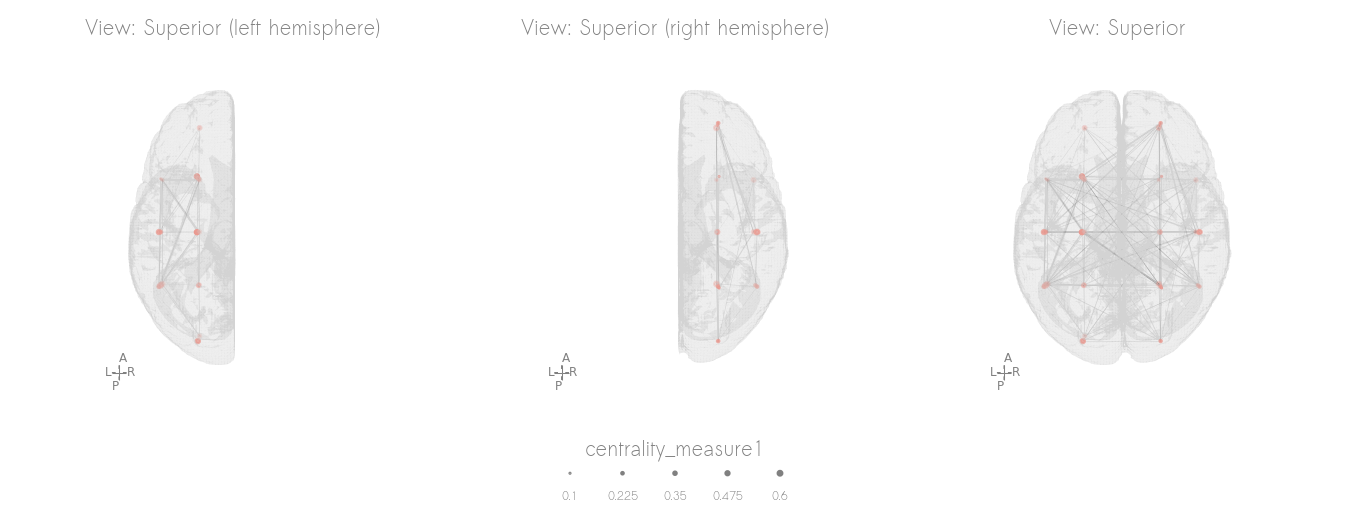
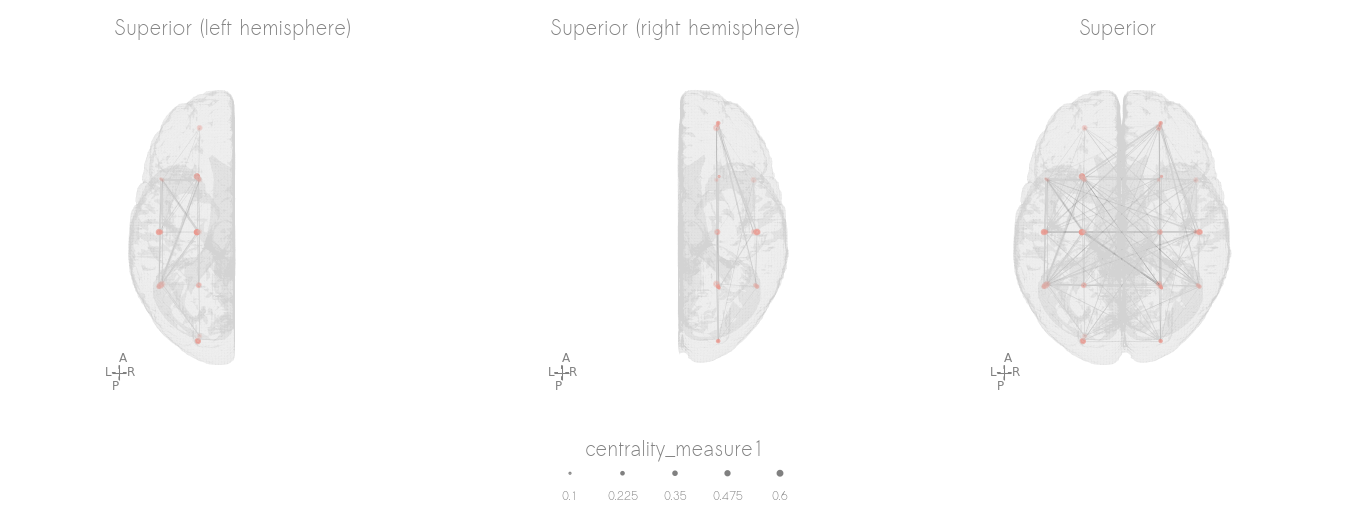
font kwargs

Changed region(s): [[0.3733, 0.0305, 0.6222, 0.0914], [0.0622, 0.0305, 0.28, 0.0914], [0.7778, 0.0305, 0.8711, 0.0914]]

diff --git a/netplotbrain/plotting/plot_legend.py b/netplotbrain/plotting/plot_legend.py
@@ -23,6 +23,10 @@ def _add_nodesize_legend(ax, nodes, nodesize, **kwargs):
     nodescale = kwargs.get('nodescale')
     nodesizelegend = kwargs.get('nodesizelegend')
     nodevminvmax = kwargs.get('nodevminvmax')
+    font = kwargs.get('font')
+    fontcolor = kwargs.get('fontcolor')
+    legendtickfontsize = kwargs.get('legendtickfontsize')
+    legendtitlefontsize = kwargs.get('legendtitlefontsize')
     if nodesizelegend is True:
         if isinstance(nodesize, str) and nodesize in nodes.columns:
             _, nl = _node_scale_vminvmax(
@@ -56,10 +60,10 @@ def _add_nodesize_legend(ax, nodes, nodesize, **kwargs):
     ax.scatter(np.arange(len(nodesizelegend)), np.ones(
         len(nodesizelegend)), s=nodesizelegend, color='gray')
     for x, label in enumerate(nodesizelegendlabels):
-        ax.text(x, 0.925, label, color='Gray', ha='center',
-                font='Sawasdee', fontsize='xx-small')
+        ax.text(x, 0.925, label, color=fontcolor, ha='center',
+                font=font, fontsize=legendtickfontsize)
     ax.text(np.mean(np.arange(len(nodesizelegendlabels))), 1.05, nodesize,
-            color='Gray', ha='center', font='Sawasdee', fontsize='medium')
+            color=fontcolor, ha='center', font=font, fontsize=legendtitlefontsize)
     ax.set_ylim([0.925, 1.1])
     ax.set_xlim([-2, len(nodesizelegendlabels) + 1])
     return ax
@@ -72,6 +76,11 @@ def _add_nodecolor_legend_discrete(ax, nodes, nodecolorby, nodecolor, **kwargs):
     """
     # Get relevant kwargs
     nodescale = kwargs.get('nodescale')
+    font = kwargs.get('font')
+    fontcolor = kwargs.get('fontcolor')
+    legendtickfontsize = kwargs.get('legendtickfontsize')
+    legendtitlefontsize = kwargs.get('legendtitlefontsize')
+    # Create list of discrete colors
     uniquenodecolorby = set(nodes[nodecolorby].dropna().values)
     uniquenodecolors_idx = [nodes[nodes[nodecolorby] ==
                                   x].first_valid_index() for x in uniquenodecolorby]
@@ -79,21 +88,27 @@ def _add_nodecolor_legend_discrete(ax, nodes, nodecolorby, nodecolor, **kwargs):
     ax.scatter(np.arange(len(uniquenodecolorby)), np.ones(
         len(uniquenodecolorby)), color=uniquenodecolors, s=nodescale)
     for x, label in enumerate(uniquenodecolorby):
-        ax.text(x, 0.925, label, color='Gray', ha='center',
-                font='Sawasdee', fontsize='xx-small')
+        ax.text(x, 0.925, label, color=fontcolor, ha='center',
+                font=font, fontsize=legendtickfontsize)
     ax.set_ylim([0.85, 1.1])
     ax.set_xlim([-2, len(uniquenodecolorby) + 1])
     # Plot title
     ax.text(np.mean(np.arange(len(uniquenodecolorby))), 1.05, nodecolorby,
-            color='Gray', ha='center', font='Sawasdee', fontsize='medium')
+            color=fontcolor, ha='center', font=font, fontsize=legendtitlefontsize)
     return ax
 
 
-def add_nodecolor_legend_continuous(ax, nodes, nodecolorby, nodecmap):
+def add_nodecolor_legend_continuous(ax, nodes, nodecolorby, nodecmap, **kwargs):
     """
     Add node color legend to bottom of figure.
     This is for continuous colours.
-    """
+    """    
+    # Get relevant kwargs
+    font = kwargs.get('font')
+    fontcolor = kwargs.get('fontcolor')
+    legendtickfontsize = kwargs.get('legendtickfontsize')
+    legendtitlefontsize = kwargs.get('legendtitlefontsize')
+    # Create continuous scale
     nc_min = nodes[nodecolorby].min()
     nc_max = nodes[nodecolorby].max()
     inc = (nc_max - nc_min) / 100
@@ -105,11 +120,11 @@ def add_nodecolor_legend_continuous(ax, nodes, nodecolorby, nodecmap):
     xticklabels = np.arange(nc_min, nc_max + (inc / 2), inc)
     for i, xtick in enumerate(np.arange(-3, 3.01, 1.5)):
         ax.plot([xtick, xtick], [0.94, 0.99], linewidth=1, color='lightgray')
-        ax.text(xtick, 0.75, np.round(xticklabels[i], 3), color='Gray', ha='center',
-                font='Sawasdee', fontsize='xx-small', transform=ax.transData)
+        ax.text(xtick, 0.75, np.round(xticklabels[i], 3), color=fontcolor, ha='center',
+                font=font, fontsize=legendtickfontsize, transform=ax.transData)
     # Plot title
     ax.text(0, 1.4, nodecolorby,
-            color='Gray', ha='center', font='Sawasdee', fontsize='medium')
+            color=fontcolor, ha='center', font=font, fontsize=legendtitlefontsize)
     return ax
 
 
@@ -129,6 +144,6 @@ def _add_nodecolor_legend(ax, nodes, nodecolorby, nodecolor, nodecmap, **kwargs)
         ax = _add_nodecolor_legend_discrete(
             ax, nodes, nodecolorby, nodecolor, **kwargs)
     else:
-        ax = add_nodecolor_legend_continuous(ax, nodes, nodecolorby, nodecmap)
+        ax = add_nodecolor_legend_continuous(ax, nodes, nodecolorby, nodecmap, **kwargs)
 
     return ax

diff --git a/netplotbrain/plot.py b/netplotbrain/plot.py
@@ -139,9 +139,13 @@ def plot(nodes=None, fig=None, ax=None, view='L', frames=1, edges=None, template
         If the colorlegend is plotted or not.
     nodesizelegend : True
     nodecolorlegendstyle : str
-        Alternatvies: auto (default), discrete, continuious
+        Alternatives: auto (default), discrete, continuious
         If the color legend should show the entire colormap or discrete colors.
         If auto, plots discrete if less than 8 unique values are detected.
+    legendtickfontsize : str, int
+        Matplotlib fontsize for title in figure legends
+    legendtitlefontsize : str, int
+        Matplotlib fontsize for ticks in figure legends
 
     ARROW KWARGS
 
@@ -152,7 +156,6 @@ def plot(nodes=None, fig=None, ax=None, view='L', frames=1, edges=None, template
     arroworigin : list
         x,y,z coordinates of arrowaxis. Note 0,0,0 is bottom left.
 
-
     FIGURE KWARGS
 
     ax : matplotlib ax with 3D projection
@@ -162,7 +165,20 @@ def plot(nodes=None, fig=None, ax=None, view='L', frames=1, edges=None, template
     fig : matplotlib figure
 
 
-    OTHER KWARGS
+    TEXT KWARGS
+
+    font : str
+        font for all text in figure.
+    fontcolor : str, list, tuple
+        font color for all text in figure
+    titlefontsize : str
+        Size of title font (default: medium). See matplotlib "fontsize"
+    titleloc : str,
+        Location of title (defualt: center). See matplotlib "loc"
+    titleweight : str
+        Font weight of title (default: regular). See matplotlib "fontweight"
+
+    STYLE KWARGS
 
     profile : str
         path or name of file in netplotbrain/profiles/<filename>.json, specifies default kwargs.
@@ -279,7 +295,7 @@ def plot(nodes=None, fig=None, ax=None, view='L', frames=1, edges=None, template
                                  azim=azim[fi], elev=elev[fi], **profile)
 
             ax.view_init(azim=azim[fi], elev=elev[fi])
-            _add_subplot_title(ax, azim[fi], elev[fi], title_frame, hemi_frame)
+            _add_subplot_title(ax, azim[fi], elev[fi], title_frame, hemi_frame, **profile)
             # Fix the aspect ratio
             ax.set_box_aspect([1, 1, 1])
             _set_axes_equal(ax)

diff --git a/netplotbrain/plotting/plot_title.py b/netplotbrain/plotting/plot_title.py
@@ -1,22 +1,26 @@
 
 
-def _add_subplot_title(ax, azim=None, elev=None, title='auto', hemisphere='both', titlefont='Sawasdee', titlefontsize='medium', titleloc='center', titleweight='regular', titlecolor='gray'):
-
+def _add_subplot_title(ax, azim=None, elev=None, title='auto', hemisphere='both', **kwargs):
+    titlefont = kwargs.get('font')
+    titlecolor = kwargs.get('fontcolor') 
+    titlefontsize = kwargs.get('titlefontsize')
+    titleloc = kwargs.get('titleloc')
+    titleweight = kwargs.get('titleweight')
     if title == 'auto':
         viewcoord = (azim, elev)
         title = ''
         if viewcoord == (180, 10):
-            title = 'View: Left'
+            title = 'Left'
         elif viewcoord == (0, 10):
-            title = 'View: Right'
+            title = 'Right'
         elif viewcoord == (90, 10):
-            title = 'View: Anterior'
+            title = 'Anterior'
         elif viewcoord == (-90, 10):
-            title = 'View: Posterior'
+            title = 'Posterior'
         elif viewcoord == (-90, 90):
-            title = 'View: Superior'
+            title = 'Superior'
         elif viewcoord == (90, 90):
-            title = 'View: Inferior'
+            title = 'Inferior'
         # Add hemisphere
         if hemisphere == 'L' or hemisphere == 'left':
             title += ' (left hemisphere)'
